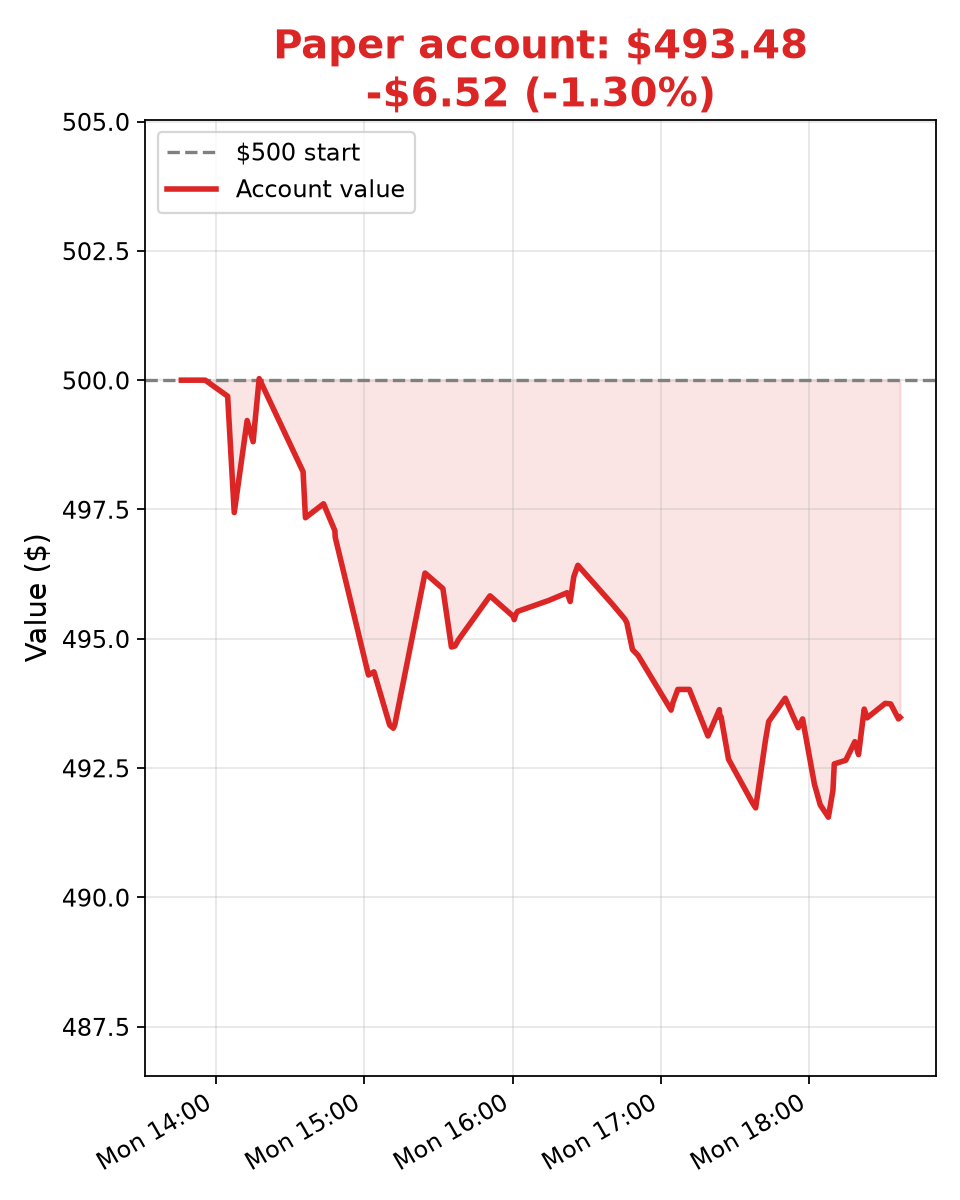
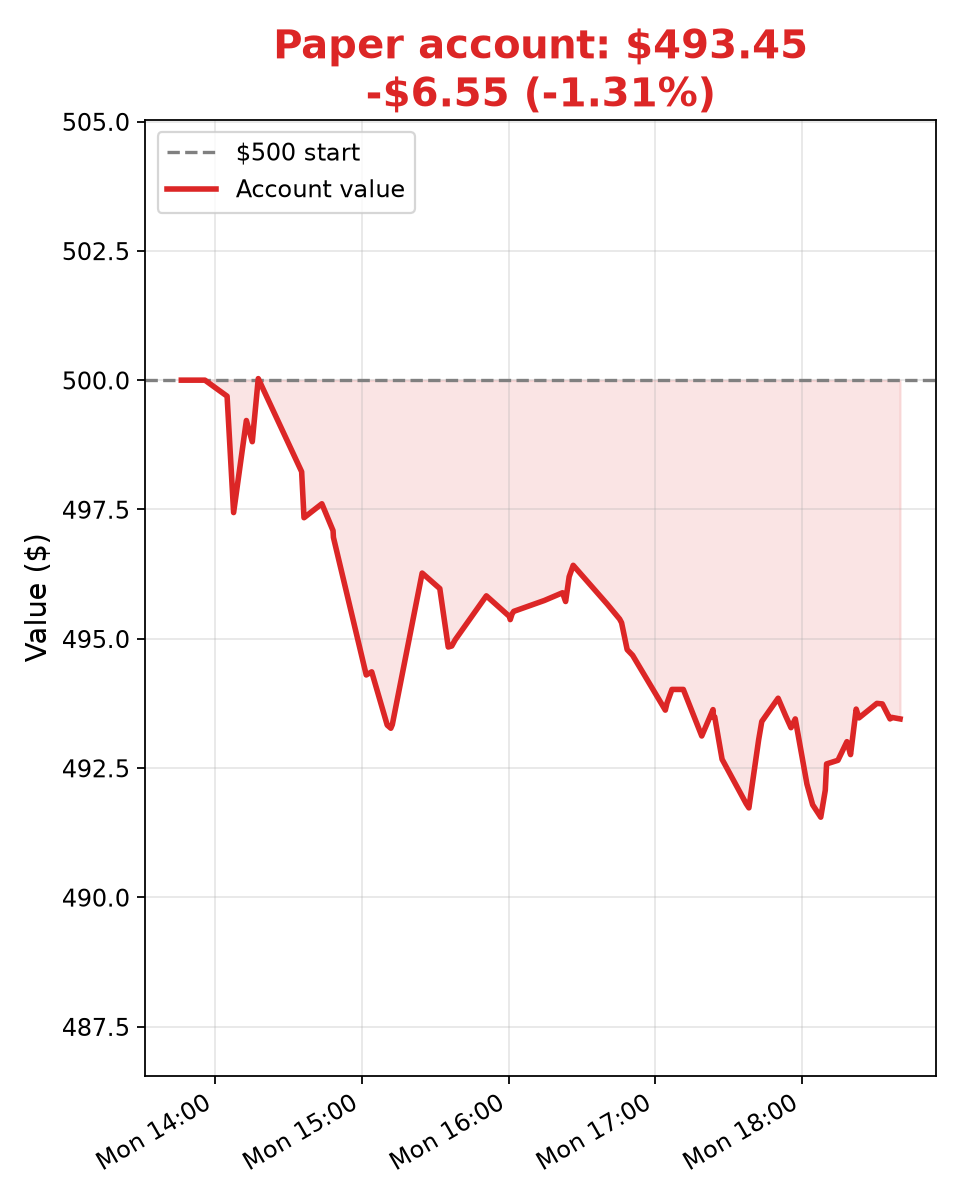
Update 2026-10-12T18:40:26Z

diff --git a/ledger.md b/ledger.md
@@ -104,3 +104,4 @@
 - 2026-10-12T18:32:50Z — total $493.74, cash $196.95 (Bot4 mark, 1:32 PM CT, no trade; FRO 58.84, DHT 26.045 marked; no stops/targets hit — DHT still coiled just above ~26.0, FRO capped under ~58.9; both underwater vs entry, no fresh catalyst to redeploy cash)
 - 2026-10-12T18:35:59Z — total $493.45, cash $196.95 (Bot2 mark, 1:35 PM CT, no trade; FRO 58.762, DHT 26.03 marked; no stops/targets hit — FRO slipped back under ~58.9 after the 18:24–18:25 poke, DHT still coiled just above ~26.0; both underwater vs entry, cash idle with no fresh catalyst)
 - 2026-10-12T18:36:37Z — total $493.48, cash $196.95 (Bot1 mark, 1:36 PM CT, no trade; FRO 58.78, DHT 26.025 marked; no stops/targets hit — DHT still coiled just above ~26.0, FRO fading under ~58.9; both underwater vs entry, no FRO reclaim so no add)
+- 2026-10-12T18:40:05Z — total $493.45, cash $196.95 (Stock Bot mark, 1:40 PM CT, no trade; FRO 58.77, DHT 26.025 marked; no stops/targets hit — DHT still coiled just above ~26.0, FRO faded back off 58.89 under the ~58.9 coil)
